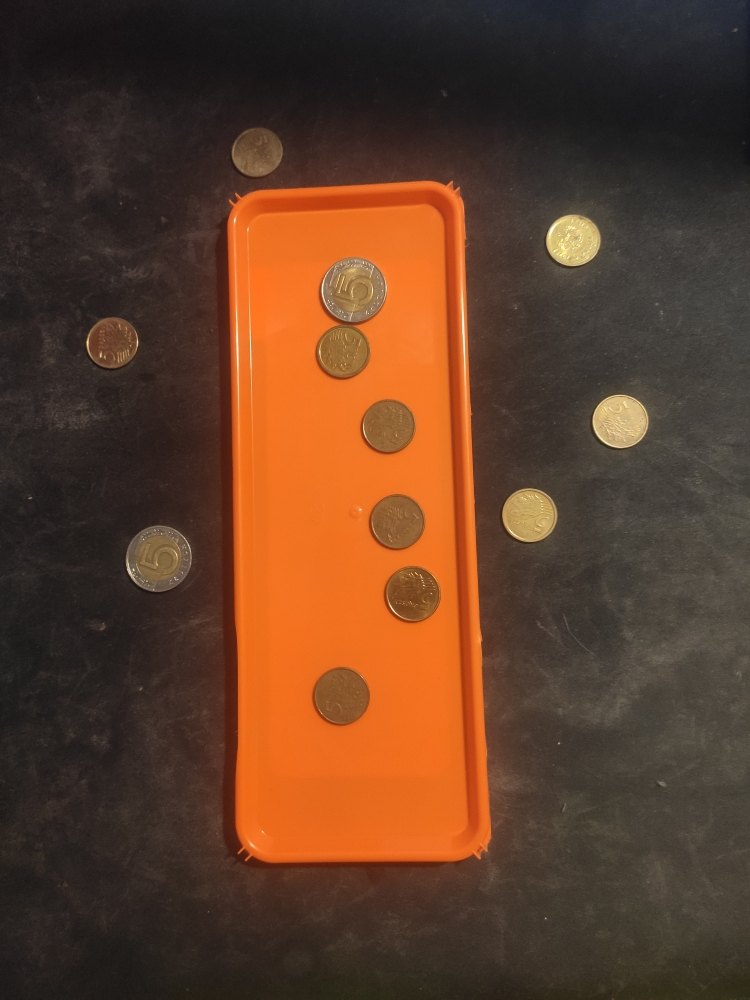
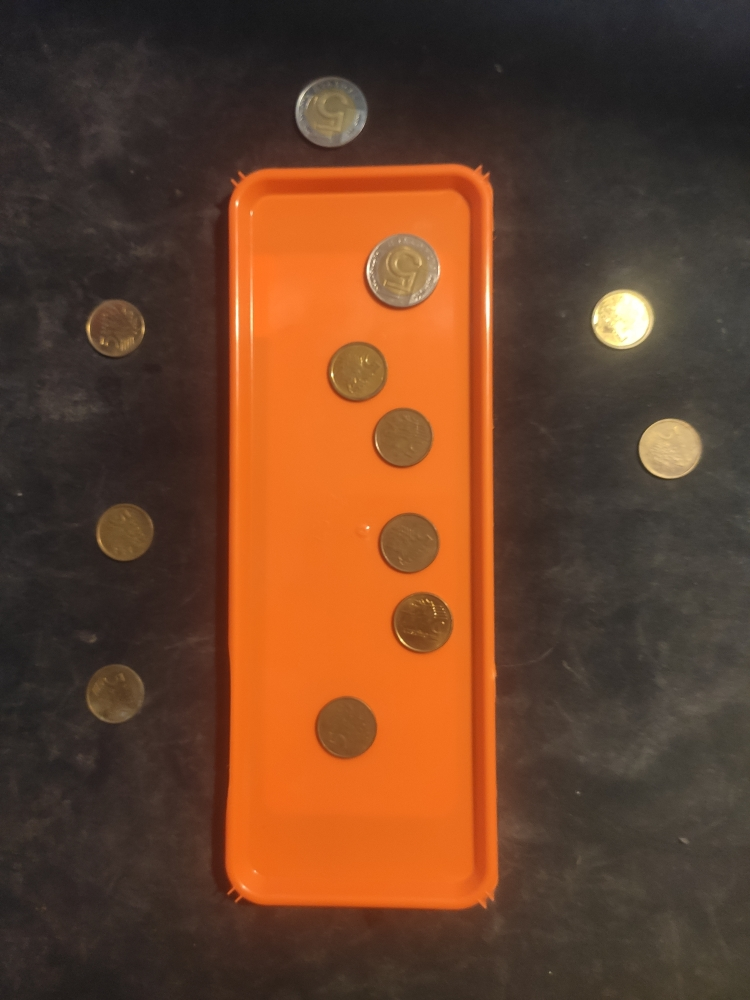
image change

diff --git a/project-2/main.py b/project-2/main.py
@@ -92,7 +92,7 @@ def detect_coins(image_path):
 
 
 def main():
-    image_path = 'images/tray1.jpg'
+    image_path = 'images/tray8.jpg'
     detect_coins(image_path)
 
 
